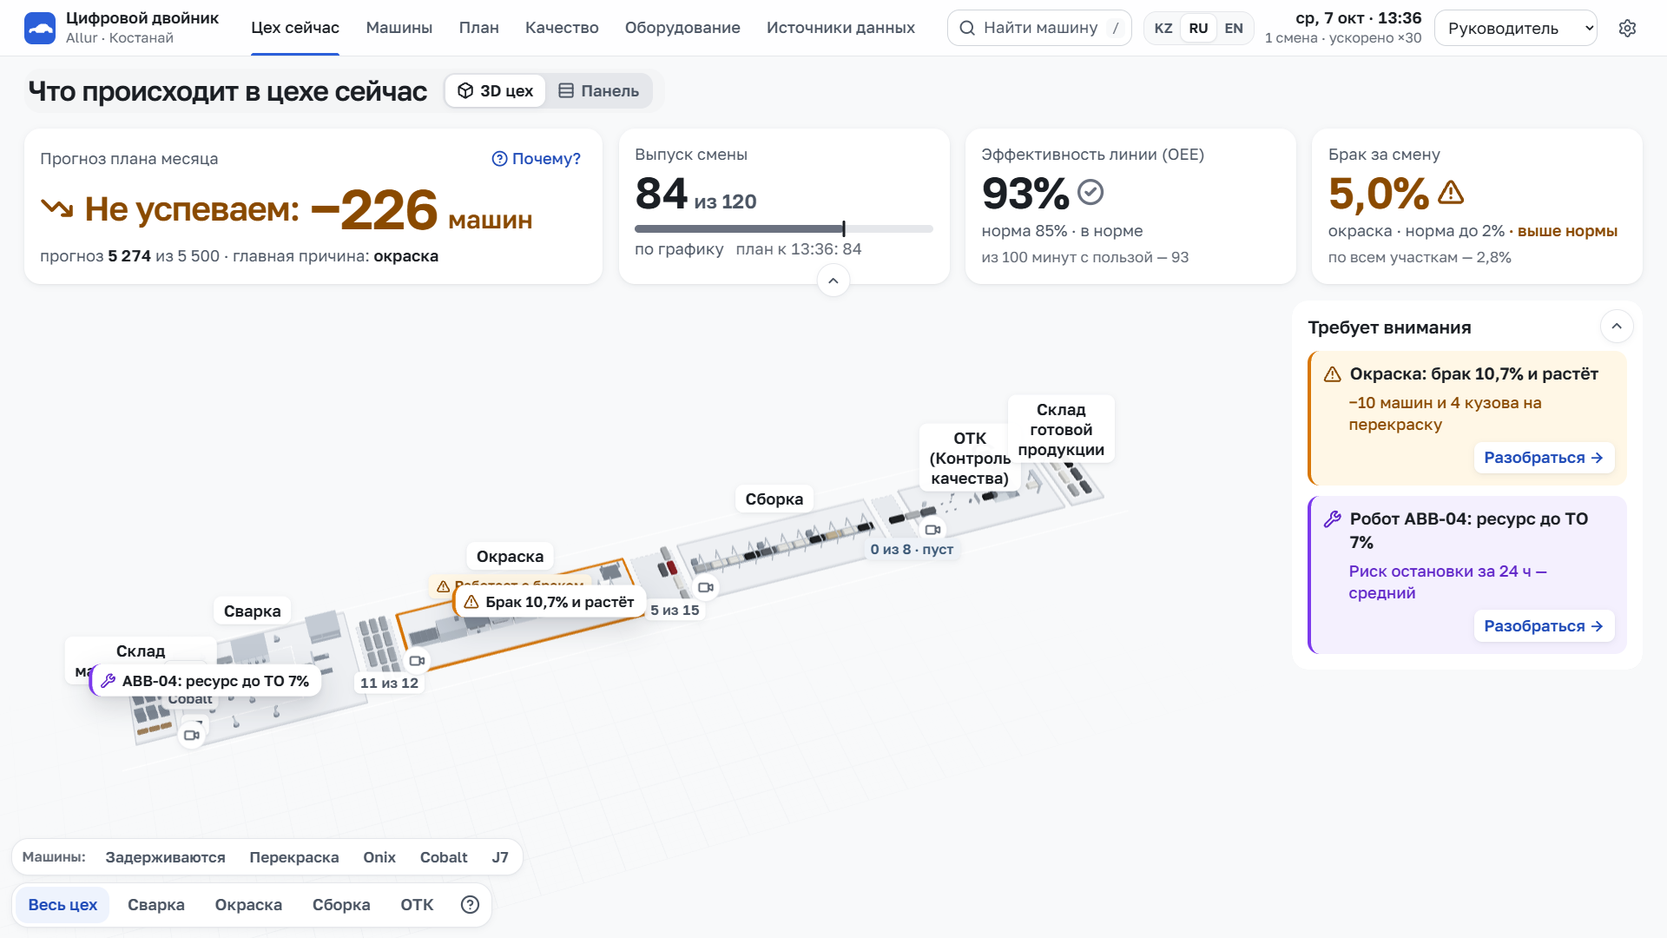
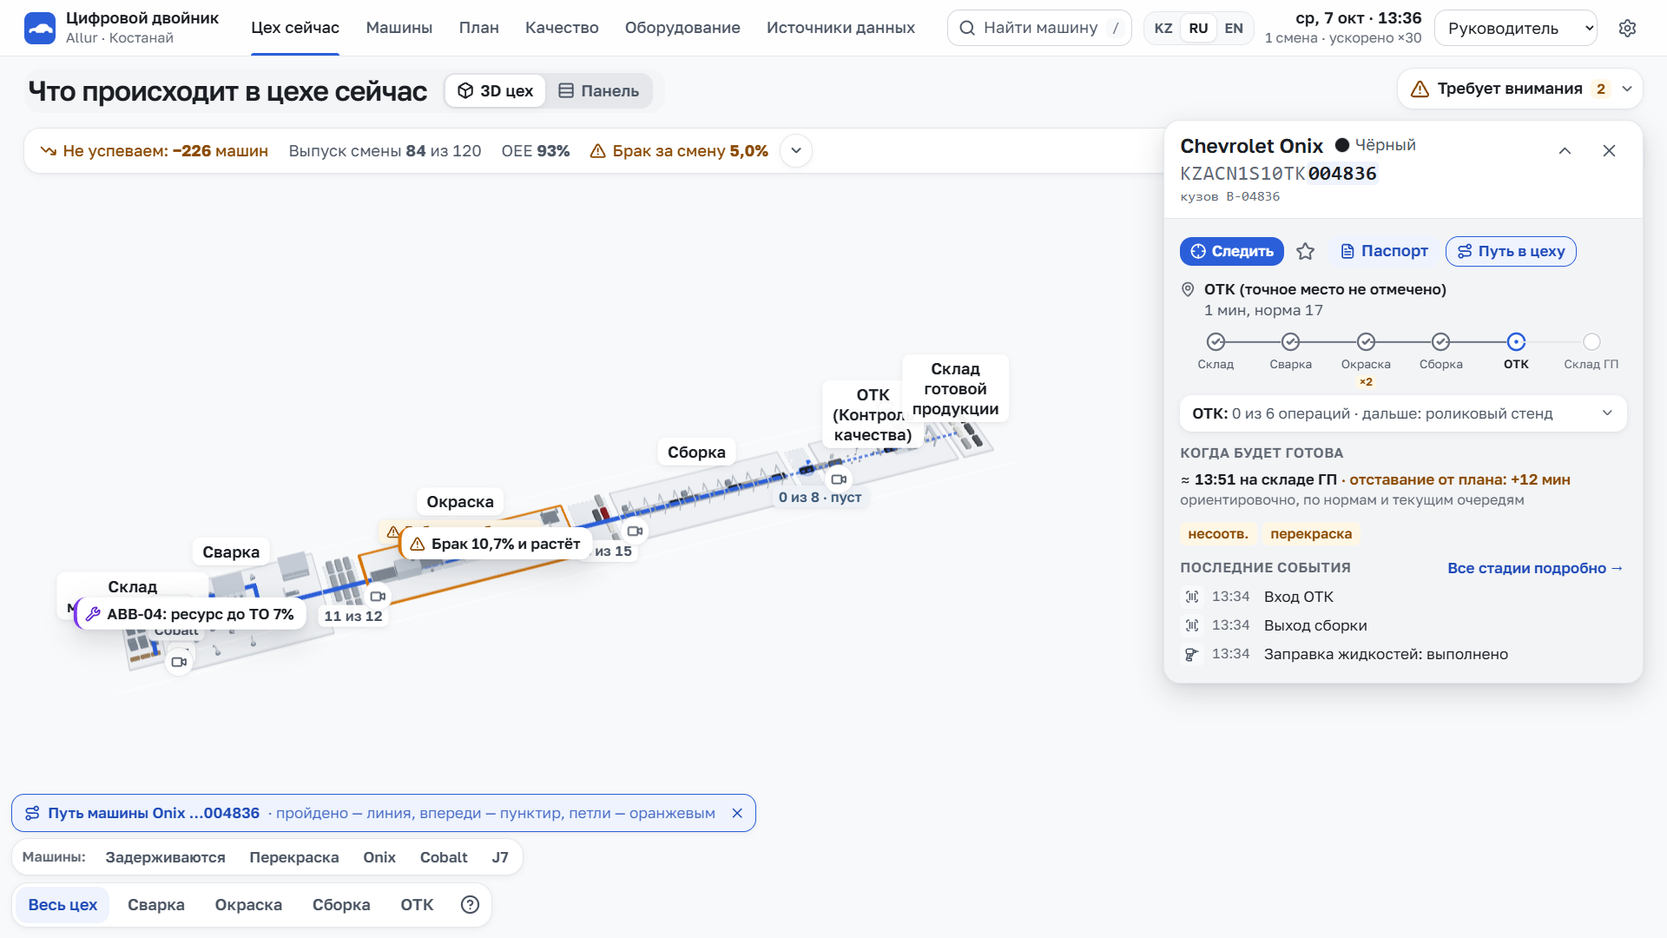
added password for security

diff --git a/apps/gateway/src/auth.ts b/apps/gateway/src/auth.ts
@@ -1,0 +1,137 @@
+// Пароль на вход: прототип видят только участники команды. Закрыто всё, что раскрывает идеи и данные:
+// интерфейс (и его файлы), REST, WebSocket, Swagger и AsyncAPI, MQTT поверх WebSocket.
+//
+// В репозитории — не пароль, а его стойкий хеш (scrypt, ~150 мс на проверку): перебрать его по коду долго.
+// Сессия — cookie с токеном, выведенным из пароля; проверенные токены кэшируются, перезапуск шлюза
+// (бесплатный хостинг засыпает) не выкидывает вошедших.
+//
+// Без пароля пускаем только запросы изнутри контейнера (127.0.0.1 без прокси): имитаторы систем завода.
+// ACCESS_PASSWORD — задать другой пароль; ACCESS_GATE=off — выключить вход (например, для локальных проверок).
+import { createHash, scryptSync, timingSafeEqual } from 'node:crypto';
+import type { FastifyInstance, FastifyReply, FastifyRequest } from 'fastify';
+
+const COOKIE = 'twin_access';
+const MAX_AGE_S = 30 * 24 * 3600;
+const SCRYPT = { N: 2 ** 16, r: 8, p: 1, maxmem: 128 * 1024 * 1024 } as const;
+/** Хеш пароля команды (сам пароль в репозитории не хранится) */
[1 lines of base64/hex data omitted]
+/** Не больше стольких неверных попыток с одного адреса за окно */
+const MAX_FAILS = 10;
+const FAIL_WINDOW_MS = 10 * 60_000;
+
+/** Токен сессии из пароля: его кладём в cookie */
+export function sessionToken(password: string): string {
+  return createHash('sha256').update(`allur-twin-session:${password}`).digest('hex');
+}
+
+export interface Gate {
+  enabled: boolean;
+  /** Подходит ли токен (из cookie или из введённого пароля) */
+  check: (token: string) => boolean;
+}
+
+export function createGate(env: NodeJS.ProcessEnv = process.env): Gate {
+  if ((env.ACCESS_GATE ?? '').toLowerCase() === 'off') return { enabled: false, check: () => true };
+  const salt = env.ACCESS_PASSWORD ? 'env' : DEFAULT.salt;
+  const expected = Buffer.from(env.ACCESS_PASSWORD ? scryptSync(sessionToken(env.ACCESS_PASSWORD), salt, 32, SCRYPT).toString('hex') : DEFAULT.hash, 'hex');
+  const ok = new Set<string>();
+  return {
+    enabled: true,
+    check(token) {
+      if (!/^[0-9a-f]{64}$/.test(token)) return false;
+      if (ok.has(token)) return true;
+      const got = scryptSync(token, salt, 32, SCRYPT);
+      const good = got.length === expected.length && timingSafeEqual(got, expected);
+      if (good) ok.add(token);
+      return good;
+    },
+  };
+}
+
+/** Запрос изнутри контейнера: имитаторы ходят на 127.0.0.1 напрямую, а всё снаружи — через прокси хостинга */
+export function isInternal(remote: string | undefined, headers: Record<string, unknown>): boolean {
+  const local = remote === '127.0.0.1' || remote === '::1' || remote === '::ffff:127.0.0.1';
+  return local && headers['x-forwarded-for'] === undefined && headers['x-forwarded-host'] === undefined;
+}
+
+function cookieOf(req: FastifyRequest): string | null {
+  const raw = req.headers.cookie;
+  if (!raw) return null;
+  for (const part of raw.split(';')) {
+    const [k, ...v] = part.trim().split('=');
+    if (k === COOKIE) return decodeURIComponent(v.join('='));
+  }
+  return null;
+}
+
+/** Открыто всегда: вход и проверка живости */
+const OPEN = ['/api/v1/auth/', '/api/v1/health'];
+
+export function registerAuth(app: FastifyInstance, gate: Gate = createGate()) {
+  const fails = new Map<string, number[]>();
+  const authed = (req: FastifyRequest) => !gate.enabled || isInternal(req.socket.remoteAddress, req.headers) || gate.check(cookieOf(req) ?? '');
+
+  app.addHook('onRequest', async (req, reply) => {
+    if (authed(req) || OPEN.some((p) => req.url.startsWith(p))) return;
+    const html = req.method === 'GET' && (req.headers.accept ?? '').includes('text/html') && !req.url.startsWith('/api/');
+    if (html) return reply.code(401).type('text/html; charset=utf-8').header('cache-control', 'no-store').send(LOGIN_PAGE);
+    return reply.code(401).send({ error: 'auth_required', message: 'Нужен пароль команды' });
+  });
+
+  // вошёл ли этот браузер: только по cookie (в разработке браузер ходит через прокси Vite с 127.0.0.1 —
+  // это не имитатор, ему тоже нужен пароль)
+  app.get('/api/v1/auth/status', async (req) => ({ ok: !gate.enabled || gate.check(cookieOf(req) ?? ''), gate: gate.enabled }));
+
+  app.post<{ Body: { password?: unknown } }>('/api/v1/auth/login', async (req, reply) => {
+    const ip = (req.headers['x-forwarded-for'] as string | undefined)?.split(',')[0]?.trim() ?? req.ip;
+    const now = Date.now();
+    const recent = (fails.get(ip) ?? []).filter((t) => now - t < FAIL_WINDOW_MS);
+    if (recent.length >= MAX_FAILS) {
+      return reply.code(429).send({ error: 'too_many_attempts', message: 'Слишком много попыток. Попробуйте через 10 минут' });
+    }
+    const password = typeof req.body?.password === 'string' ? req.body.password.trim() : '';
+    const token = sessionToken(password);
+    if (!password || !gate.check(token)) {
+      recent.push(now);
+      fails.set(ip, recent);
+      return reply.code(401).send({ error: 'wrong_password', message: 'Неверный пароль' });
+    }
+    fails.delete(ip);
+    const secure = req.protocol === 'https' || req.headers['x-forwarded-proto'] === 'https';
+    reply.header('set-cookie', `${COOKIE}=${token}; Path=/; Max-Age=${MAX_AGE_S}; HttpOnly; SameSite=Lax${secure ? '; Secure' : ''}`);
+    return { ok: true };
+  });
+
+  app.post('/api/v1/auth/logout', async (_req, reply) => {
+    reply.header('set-cookie', `${COOKIE}=; Path=/; Max-Age=0; HttpOnly; SameSite=Lax`);
+    return { ok: true };
+  });
+}
+
+/** Страница входа, когда сам интерфейс ещё закрыт: без внешних файлов */
+export const LOGIN_PAGE = `<!doctype html>
+<html lang="ru"><head><meta charset="utf-8"><meta name="viewport" content="width=device-width,initial-scale=1">
+<meta name="robots" content="noindex,nofollow"><title>Цифровой двойник — вход</title>
+<style>
+:root{color-scheme:light}*{box-sizing:border-box}body{margin:0;min-height:100vh;display:grid;place-items:center;background:#f3f5f8;font:16px/1.4 system-ui,-apple-system,"Segoe UI",sans-serif;color:#1b1f24}
+form{width:min(360px,calc(100vw - 32px));background:#fff;border-radius:20px;padding:28px;box-shadow:0 10px 30px rgba(27,31,36,.08),0 0 0 1px #e3e7ec}
+h1{font-size:22px;margin:0 0 4px}p{margin:0 0 20px;color:#5b6573}label{display:block;font-weight:600;margin-bottom:6px}
+input{width:100%;font:inherit;font-size:20px;letter-spacing:.2em;padding:10px 12px;border:1px solid #c9d0d8;border-radius:12px;outline:none}input:focus{border-color:#2b5fd9;box-shadow:0 0 0 3px rgba(43,95,217,.2)}
+button{margin-top:14px;width:100%;font:inherit;font-weight:600;padding:11px;border:0;border-radius:12px;background:#2b5fd9;color:#fff;cursor:pointer}button:hover{background:#1f4bb8}
+.err{color:#b42318;min-height:1.4em;margin-top:10px;font-size:15px}
+</style></head><body>
+<form id="f"><h1>Цифровой двойник Allur</h1><p>Прототип команды. Введите пароль · Құпиясөзді енгізіңіз · Enter the password</p>
+<label for="p">Пароль</label><input id="p" name="password" type="password" inputmode="numeric" autocomplete="current-password" autofocus required>
+<button type="submit">Войти</button><div class="err" id="e" role="alert"></div></form>
+<script>
+document.getElementById('f').addEventListener('submit', async (ev) => {
+  ev.preventDefault();
+  const e = document.getElementById('e'); e.textContent = '';
+  try {
+    const r = await fetch('/api/v1/auth/login', { method: 'POST', headers: { 'content-type': 'application/json' }, body: JSON.stringify({ password: document.getElementById('p').value }) });
+    if (r.ok) return location.reload();
+    const j = await r.json().catch(() => ({}));
+    e.textContent = j.message || 'Неверный пароль';
+  } catch { e.textContent = 'Нет связи с сервером'; }
+});
+</script></body></html>`;

diff --git a/apps/web/src/components/AccessGate.tsx b/apps/web/src/components/AccessGate.tsx
@@ -1,0 +1,131 @@
+// Пароль команды на входе в приложение. Шлюз закрывает API, WebSocket и файлы интерфейса без cookie входа;
+// здесь — экран ввода, пока вход не выполнен (в разработке интерфейс отдаёт Vite, и закрыть его может только он).
+// Пока вход не выполнен, приложение не подключается к данным двойника.
+import { useEffect, useState, type FormEvent, type ReactNode } from 'react';
+import { LoaderCircle, Lock } from 'lucide-react';
+import { useTranslation } from '../i18n/store';
+import { LanguageSwitcher } from './LanguageSwitcher';
+
+type State = 'checking' | 'offline' | 'locked' | 'open';
+
+export function AccessGate({ children }: { children: ReactNode }) {
+  const [state, setState] = useState<State>('checking');
+
+  // спрашиваем шлюз; бесплатный хостинг просыпается до минуты — повторяем, пока не ответит
+  useEffect(() => {
+    let stop = false;
+    let timer = 0;
+    const ask = () =>
+      fetch('/api/v1/auth/status', { cache: 'no-store' })
+        .then((r) => (r.ok ? (r.json() as Promise<{ ok: boolean }>) : Promise.reject(new Error(String(r.status)))))
+        .then((j) => !stop && setState(j.ok ? 'open' : 'locked'))
+        .catch(() => {
+          if (stop) return;
+          setState((s) => (s === 'checking' || s === 'offline' ? 'offline' : s));
+          timer = window.setTimeout(ask, 2000);
+        });
+    void ask();
+    return () => {
+      stop = true;
+      window.clearTimeout(timer);
+    };
+  }, []);
+
+  if (state === 'open') return <>{children}</>;
+  if (state === 'locked') return <PasswordScreen onOpen={() => setState('open')} />;
+  return <Waiting offline={state === 'offline'} />;
+}
+
+function Waiting({ offline }: { offline: boolean }) {
+  const { lang } = useTranslation();
+  const text = offline
+    ? lang === 'kk'
+      ? 'Сандық егіз іске қосылуда…'
+      : lang === 'en'
+        ? 'Starting the digital twin…'
+        : 'Запускаем двойник…'
+    : '';
+  return (
+    <div className="grid min-h-screen place-items-center bg-page">
+      <div className="flex items-center gap-2 text-lg text-ink-2" role="status">
+        <LoaderCircle className="size-6 animate-spin text-accent" aria-hidden />
+        {text}
+      </div>
+    </div>
+  );
+}
+
+function PasswordScreen({ onOpen }: { onOpen: () => void }) {
+  const { lang } = useTranslation();
+  const [password, setPassword] = useState('');
+  const [error, setError] = useState('');
+  const [busy, setBusy] = useState(false);
+  const L = {
+    title: lang === 'kk' ? 'Allur сандық егізі' : lang === 'en' ? 'Allur digital twin' : 'Цифровой двойник Allur',
+    hint: lang === 'kk' ? 'Команданың прототипі. Кіру үшін құпиясөзді енгізіңіз.' : lang === 'en' ? 'Team prototype. Enter the password to continue.' : 'Прототип команды. Введите пароль, чтобы войти.',
+    label: lang === 'kk' ? 'Құпиясөз' : lang === 'en' ? 'Password' : 'Пароль',
+    submit: lang === 'kk' ? 'Кіру' : lang === 'en' ? 'Sign in' : 'Войти',
+    wrong: lang === 'kk' ? 'Құпиясөз қате' : lang === 'en' ? 'Wrong password' : 'Неверный пароль',
+    many: lang === 'kk' ? 'Әрекет тым көп. 10 минуттан кейін қайталаңыз' : lang === 'en' ? 'Too many attempts. Try again in 10 minutes' : 'Слишком много попыток. Попробуйте через 10 минут',
+    offline: lang === 'kk' ? 'Сервермен байланыс жоқ' : lang === 'en' ? 'No connection to the server' : 'Нет связи с сервером',
+  };
+
+  const submit = async (e: FormEvent) => {
+    e.preventDefault();
+    if (!password || busy) return;
+    setBusy(true);
+    setError('');
+    try {
+      const r = await fetch('/api/v1/auth/login', { method: 'POST', headers: { 'content-type': 'application/json' }, body: JSON.stringify({ password }) });
+      if (r.ok) return onOpen();
+      setError(r.status === 429 ? L.many : L.wrong);
+      setPassword('');
+    } catch {
+      setError(L.offline);
+    } finally {
+      setBusy(false);
+    }
+  };
+
+  return (
+    <main className="grid min-h-screen place-items-center bg-page px-4">
+      <form onSubmit={submit} className="w-full max-w-sm rounded-2xl bg-surface p-7 shadow-pop ring-1 ring-line">
+        <div className="mb-5 flex items-start justify-between gap-3">
+          <img src="/favicon.svg" alt="" className="size-10" />
+          <LanguageSwitcher compact />
+        </div>
+        <h1 className="text-[1.375rem] font-semibold leading-tight">{L.title}</h1>
+        <p className="mb-5 mt-1 text-ink-2">{L.hint}</p>
+        <label htmlFor="access-password" className="mb-1.5 block font-semibold">
+          {L.label}
+        </label>
+        <div className="relative">
+          <Lock className="pointer-events-none absolute left-3 top-1/2 size-5 -translate-y-1/2 text-ink-3" aria-hidden />
+          <input
+            id="access-password"
+            type="password"
+            inputMode="numeric"
+            autoComplete="current-password"
+            autoFocus
+            value={password}
+            onChange={(e) => setPassword(e.target.value)}
+            aria-invalid={!!error}
+            aria-describedby={error ? 'access-error' : undefined}
+            className="h-12 w-full rounded-xl border border-line-strong bg-surface pl-10 pr-3 text-xl tracking-[0.2em] outline-none focus:border-accent focus:ring-2 focus:ring-accent/25"
+          />
+        </div>
+        <button
+          type="submit"
+          disabled={busy || !password}
+          className="mt-4 inline-flex h-11 w-full items-center justify-center gap-2 rounded-xl bg-accent font-semibold text-white hover:bg-accent-ink disabled:opacity-60"
+        >
+          {busy && <LoaderCircle className="size-4 animate-spin" aria-hidden />}
+          {L.submit}
+        </button>
+        <p id="access-error" role="alert" className="mt-3 min-h-[1.4em] text-[0.9375rem] font-medium text-st-fault-ink">
+          {error}
+        </p>
+      </form>
+    </main>
+  );
+}

diff --git a/apps/gateway/test/auth.test.ts b/apps/gateway/test/auth.test.ts
@@ -1,0 +1,28 @@
+import { describe, expect, it } from 'vitest';
+import { createGate, isInternal, sessionToken } from '../src/auth';
+
+describe('пароль команды', () => {
+  // пароль команды в репозитории не хранится — механизм проверяем на своём пароле из окружения
+  const gate = createGate({ ACCESS_PASSWORD: 'тестовый-пароль' });
+
+  it('пускает по верному паролю и не пускает по чужому', () => {
+    expect(gate.enabled).toBe(true);
+    expect(gate.check(sessionToken('тестовый-пароль'))).toBe(true);
+    expect(gate.check(sessionToken('12345678'))).toBe(false);
+    expect(gate.check('не токен')).toBe(false);
+  });
+
+  it('по умолчанию вход включён (хеш пароля команды), выключается переменной', () => {
+    const team = createGate({});
+    expect(team.enabled).toBe(true);
+    expect(team.check(sessionToken('12345678'))).toBe(false);
+    expect(createGate({ ACCESS_GATE: 'off' }).enabled).toBe(false);
+  });
+
+  it('без пароля — только запросы изнутри контейнера, не через прокси', () => {
+    expect(isInternal('127.0.0.1', {})).toBe(true);
+    expect(isInternal('::ffff:127.0.0.1', {})).toBe(true);
+    expect(isInternal('127.0.0.1', { 'x-forwarded-for': '203.0.113.5' })).toBe(false);
+    expect(isInternal('10.0.0.7', {})).toBe(false);
+  });
+});

diff --git a/apps/web/src/App.tsx b/apps/web/src/App.tsx
@@ -19,6 +19,7 @@ import { closePassport, useView } from './state/view';
 import { startCarTracking } from './state/watch';
 import { WatchToast } from './components/Watch';
 import { useTranslation } from './i18n/store';
+import { AccessGate } from './components/AccessGate';
 
 const queryClient = new QueryClient({ defaultOptions: { queries: { retry: 1, refetchOnWindowFocus: false } } });
 
@@ -49,7 +50,8 @@ function Shell() {
   );
 }
 
-export function App() {
+/** Приложение после входа: только тогда подключаемся к данным двойника */
+function Authed() {
   useEffect(() => {
     startCarTracking();
     connectLive();
@@ -63,5 +65,13 @@ export function App() {
         </Routes>
       </BrowserRouter>
     </QueryClientProvider>
+  );
+}
+
+export function App() {
+  return (
+    <AccessGate>
+      <Authed />
+    </AccessGate>
   );
 }

diff --git a/apps/gateway/src/index.ts b/apps/gateway/src/index.ts
@@ -25,6 +25,7 @@ import { viewRoutes } from './routes/views';
 import { plantRoutes, withRuntime } from './routes/plant';
 import { PlantStore } from './plant';
 import { ConnectionMonitor } from './connections';
+import { registerAuth } from './auth';
 import type { Ctx } from './context';
 
 const log = (msg: string) => console.log(`[шлюз] ${msg}`);
@@ -82,6 +83,8 @@ plant.onChange((cfg, changes) => {
 });
 
 const app = Fastify({ logger: { level: 'warn' }, bodyLimit: 10 * 1024 * 1024 });
+// пароль команды — раньше всех маршрутов: закрывает интерфейс, API, WebSocket и документацию
+registerAuth(app);
 
 app.addContentTypeParser(['text/csv', 'text/plain'], { parseAs: 'string', bodyLimit: 10 * 1024 * 1024 }, (_req, body, done) => done(null, body));
 

diff --git a/apps/web/src/screens/shop/FollowBar.tsx b/apps/web/src/screens/shop/FollowBar.tsx
@@ -37,7 +37,7 @@ export function FollowBar({ className }: { className?: string }) {
       <div role="status" className={cx('view-in pointer-events-auto inline-flex max-w-full items-center gap-2 rounded-xl bg-accent-bg py-1 pl-3 pr-1 text-[0.9375rem] text-accent-ink shadow-card ring-1 ring-accent', className)}>
         <Crosshair className="size-4 shrink-0" strokeWidth={2.25} aria-hidden />
         <span className="min-w-0 truncate">
-          <b>{t.shop.following}: {name}</b>
+          <b>{t.shop.followingBar}: {name}</b>
           {where && <span> · {where}</span>}
           {mode === 'panel' && <span className="text-accent-ink/80"> · {t.shop.areaHighlighted}</span>}
         </span>

diff --git a/apps/web/src/i18n/locales/ru.ts b/apps/web/src/i18n/locales/ru.ts
@@ -111,7 +111,8 @@ export const ru: Translations = {
     attentionNone: 'Отклонений нет',
     investigate: 'Разобраться',
     follow: 'Следить',
-    following: 'Слежение:',
+    following: 'Слежу',
+    followingBar: 'Слежение',
     areaHighlighted: 'участок подсвечен',
     returnToCar: 'Вернуться к машине',
     stopFollow: 'Остановить',

diff --git a/apps/web/src/i18n/types.ts b/apps/web/src/i18n/types.ts
@@ -111,7 +111,10 @@ export interface Translations {
     attentionNone: string;
     investigate: string;
     follow: string;
+    /** Кнопка в карточке, пока слежение включено */
     following: string;
+    /** Начало плашки слежения: «Слежение: Onix …004812» */
+    followingBar: string;
     areaHighlighted: string;
     returnToCar: string;
     stopFollow: string;

diff --git a/apps/web/src/i18n/locales/kk.ts b/apps/web/src/i18n/locales/kk.ts
@@ -111,7 +111,8 @@ export const kk: Translations = {
     attentionNone: 'Ауытқулар жоқ',
     investigate: 'Тексеру',
     follow: 'Бақылау',
-    following: 'Бақылауда:',
+    following: 'Бақылауда',
+    followingBar: 'Бақылау',
     areaHighlighted: 'учаске белгіленді',
     returnToCar: 'Шанаққа оралу',
     stopFollow: 'Тоқтату',

diff --git a/apps/web/src/i18n/locales/en.ts b/apps/web/src/i18n/locales/en.ts
@@ -111,7 +111,8 @@ export const en: Translations = {
     attentionNone: 'No deviations',
     investigate: 'Investigate',
     follow: 'Follow',
-    following: 'Following:',
+    following: 'Following',
+    followingBar: 'Following',
     areaHighlighted: 'area highlighted',
     returnToCar: 'Return to car',
     stopFollow: 'Stop',
